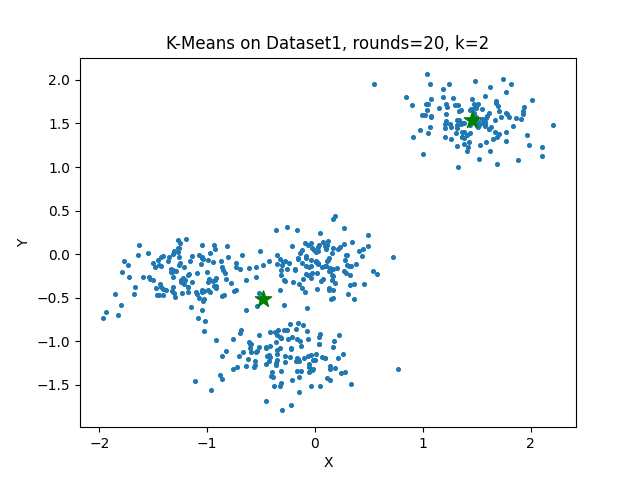
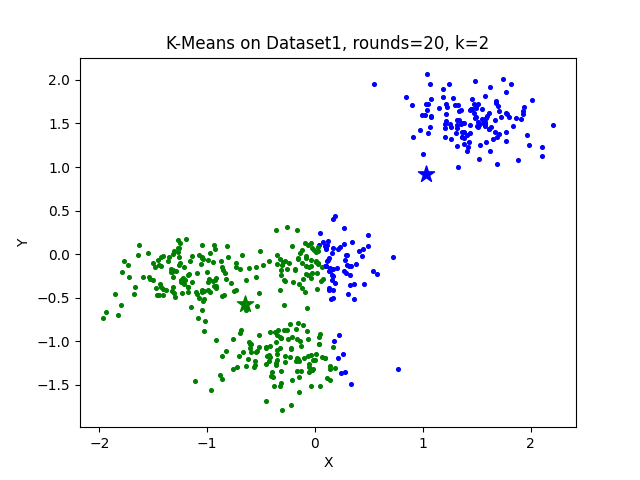
apply k means on dataset1

diff --git a/HW4/Q1/k-means.py b/HW4/Q1/k-means.py
@@ -26,7 +26,8 @@ def kmeans(data: np.ndarray, k: int):
     # norm 2 with zero
     error = np.linalg.norm(centers_new - centers_old)
 
-    for j in range(20):
+    rounds = 20
+    for j in range(rounds):
         for i in range(k):
             distances[:, i] = np.linalg.norm(data - centers[i], axis=1)
         clusters = np.argmin(distances, axis=1)
@@ -37,9 +38,14 @@ def kmeans(data: np.ndarray, k: int):
         # error = np.linalg.norm(centers_new - centers_old)
     print(centers_new)
 
-    plt.scatter(data[:, 0], data[:, 1], s=7)
-    plt.scatter(centers_new[:, 0], centers_new[:, 1], marker='*', c='g', s=150)
-    plt.title("K-Means on Dataset1, rounds=20, k=2")
+    colors = ['blue', 'green', 'orange', 'purple']
+    # plot data points
+    for i in range(n):
+        plt.scatter(data[i, 0], data[i, 1], s=7, color=colors[clusters[i]])
+    # plot centers
+    for i in range(k):
+        plt.scatter(centers_new[i, 0], centers_new[i, 1], marker='*', c=colors[i], s=150)
+    plt.title("K-Means on Dataset1, rounds={}, k={}".format(rounds, k))
     plt.xlabel("X")
     plt.ylabel("Y")
     plt.show()
